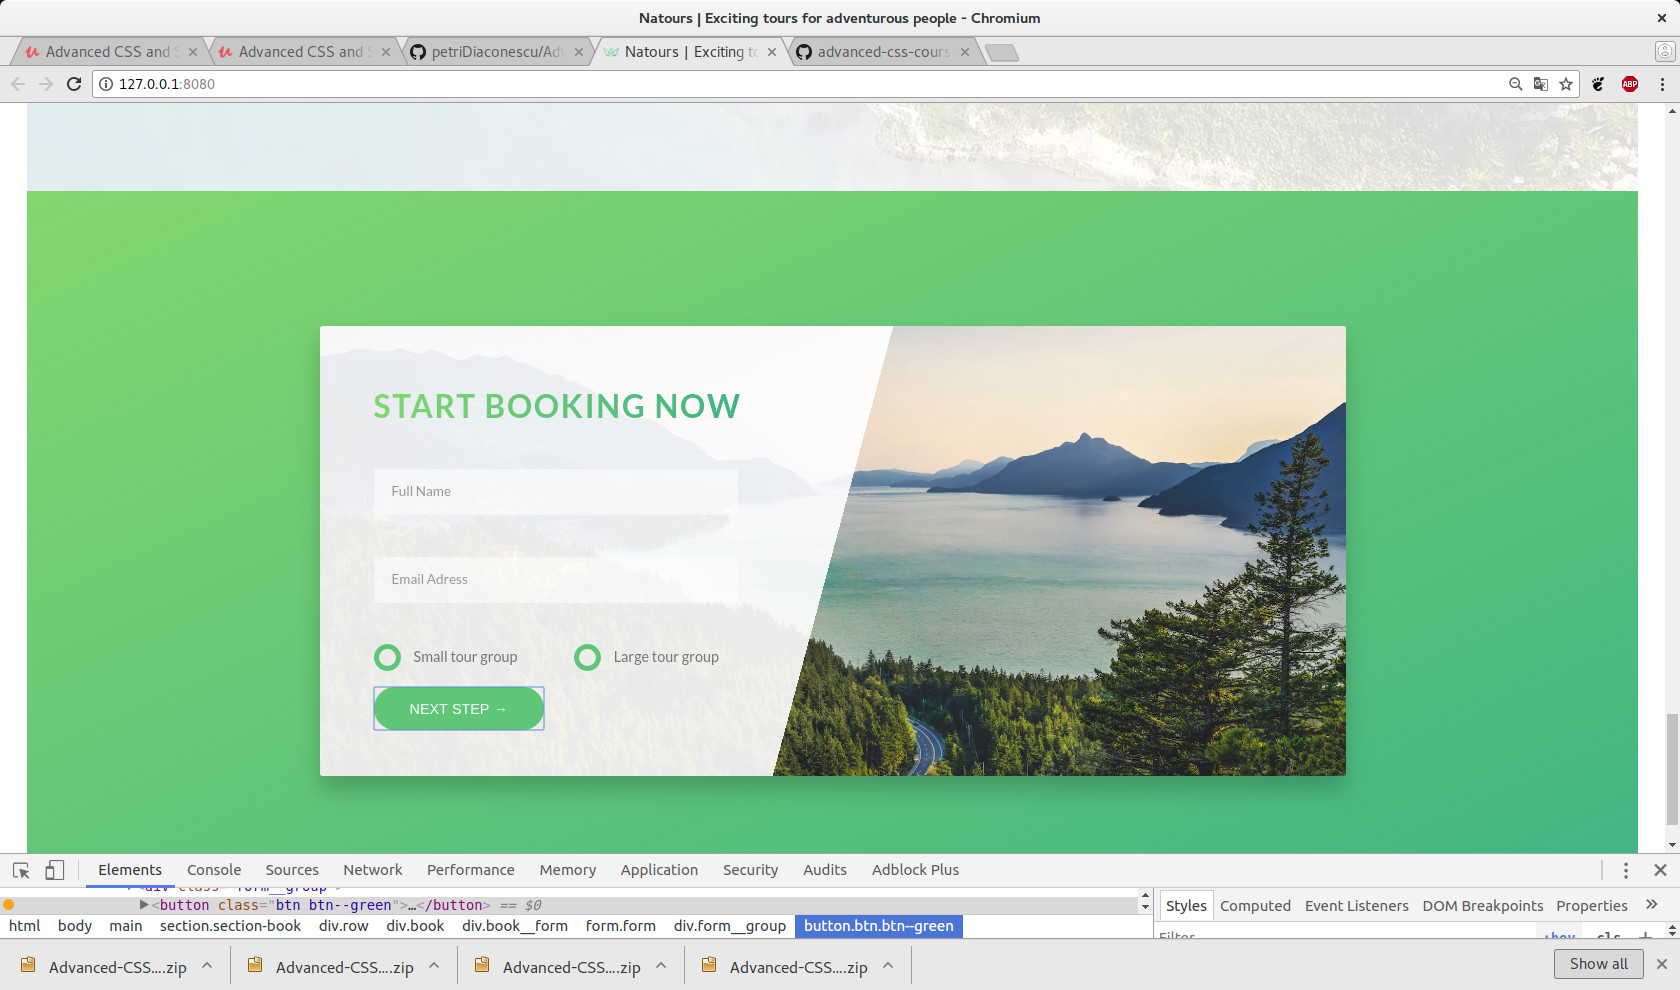
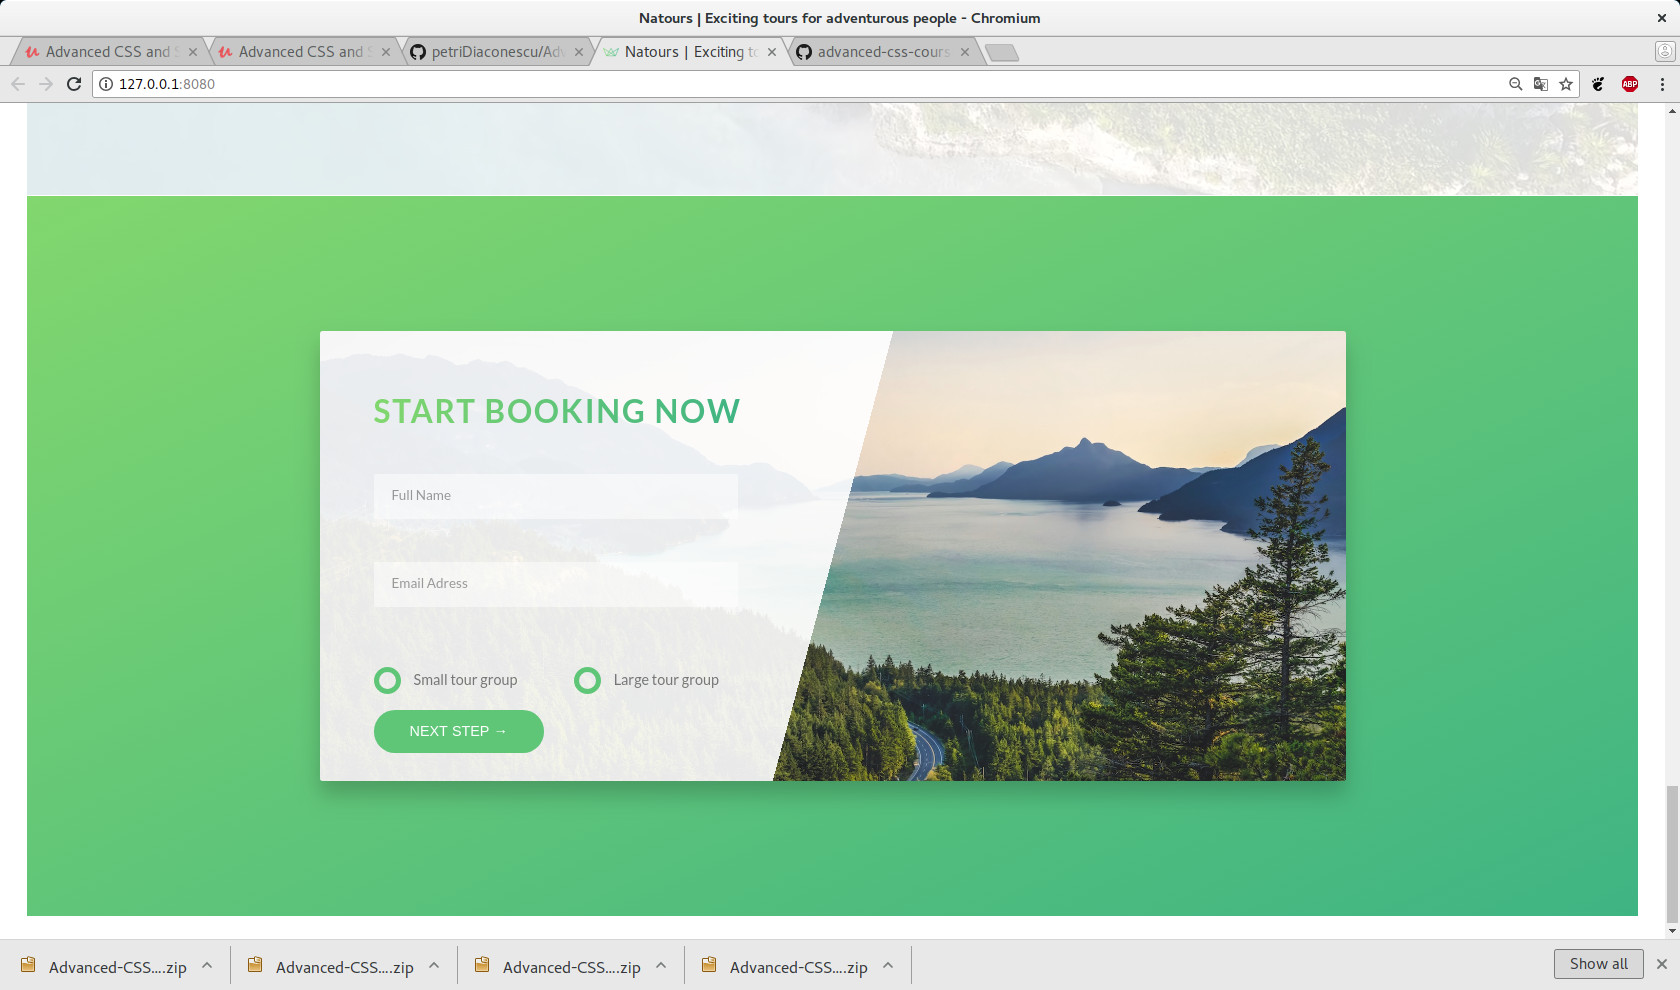
Try to give a margin-bottom to our radio button group. But in _form.scss we have: ... .form {   {ampersand_sign}__group:not(:last-child) {     margin-bottom: 2rem;   } ...
This lines are more specific than stylesheets imposed by u-margin-top-medium class, so this class doesn't apply. Margin-bottom of the radio button group remain unchanged.

diff --git a/index.html b/index.html
@@ -296,7 +296,7 @@
                     <label for="email" class="form__label">Email Adress</label>
                   </div>
                   
-                  <div class="form__group">
+                  <div class="form__group u-margin-top-medium">
                     <div class="form__radio-group">
                       <input type="radio" class="form__radio-input" id="small" name="size"/>
                       <label for="small" class="form__radio-label">
